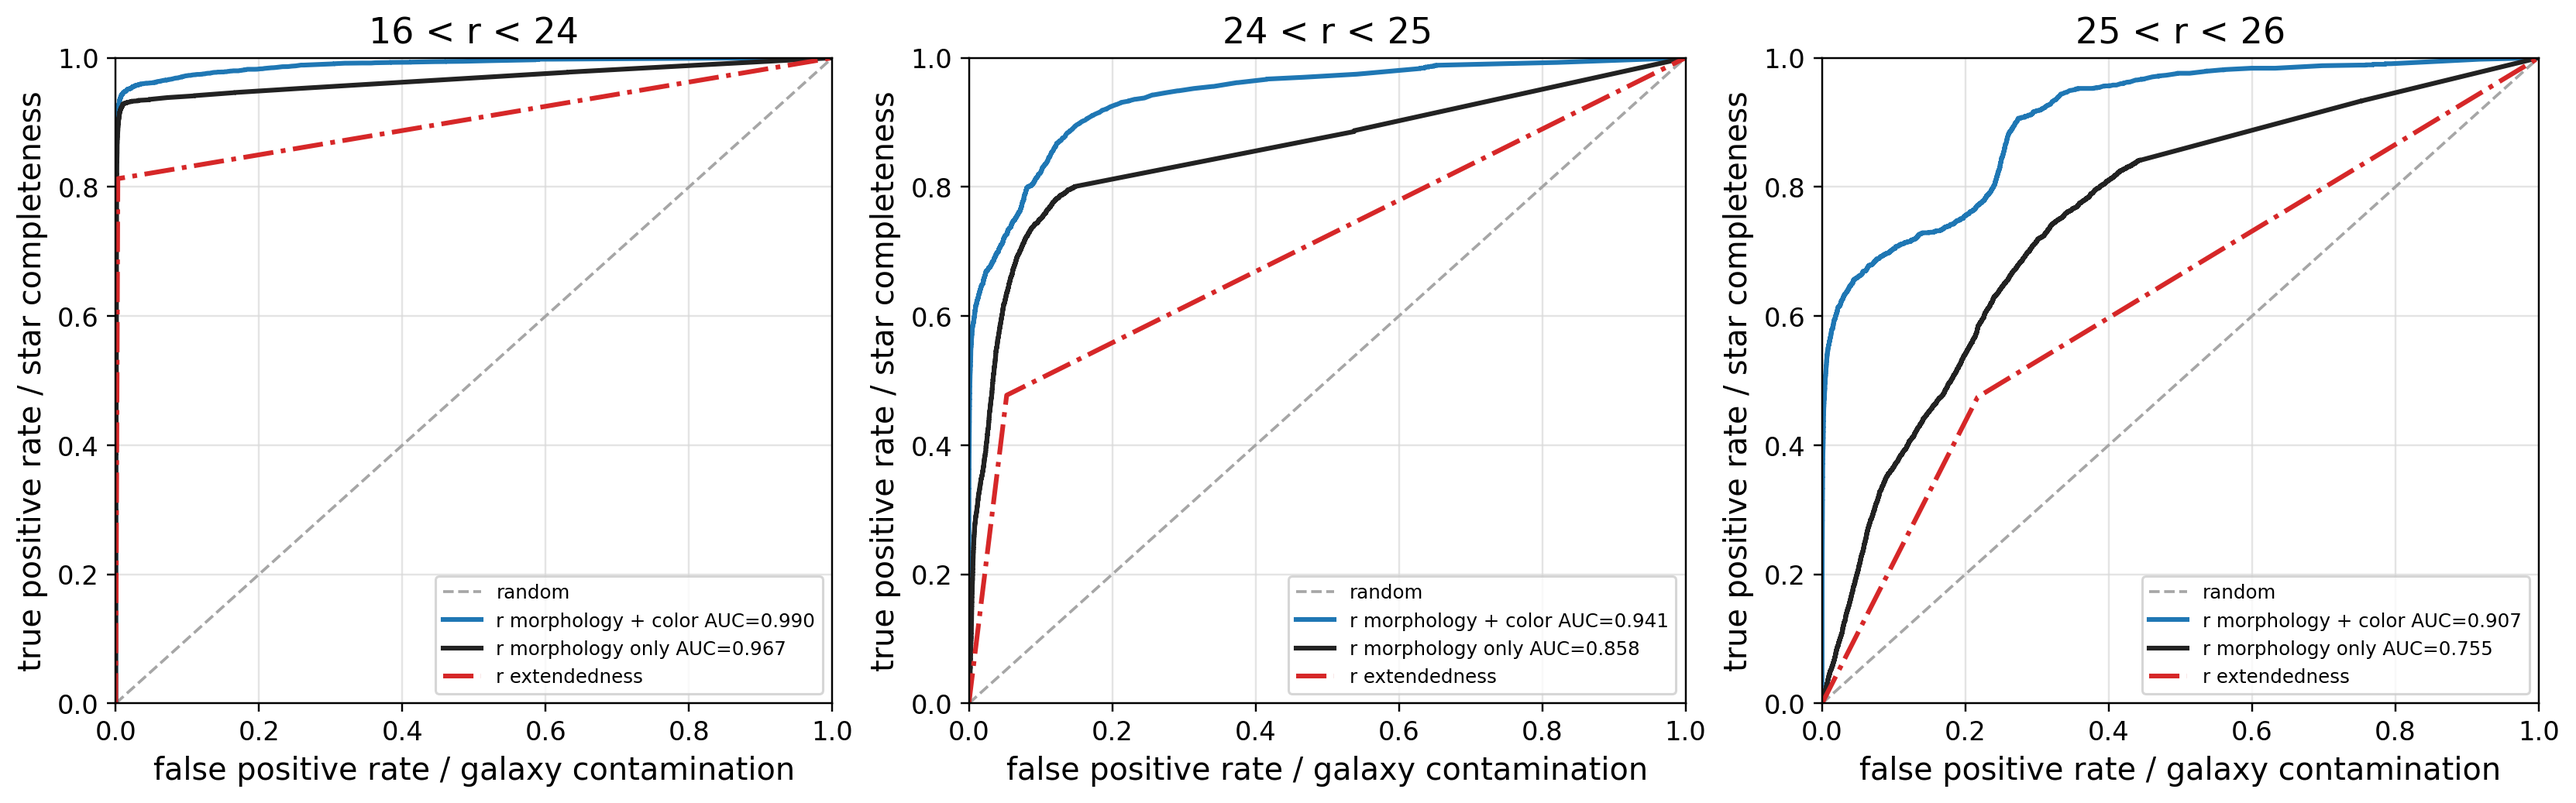
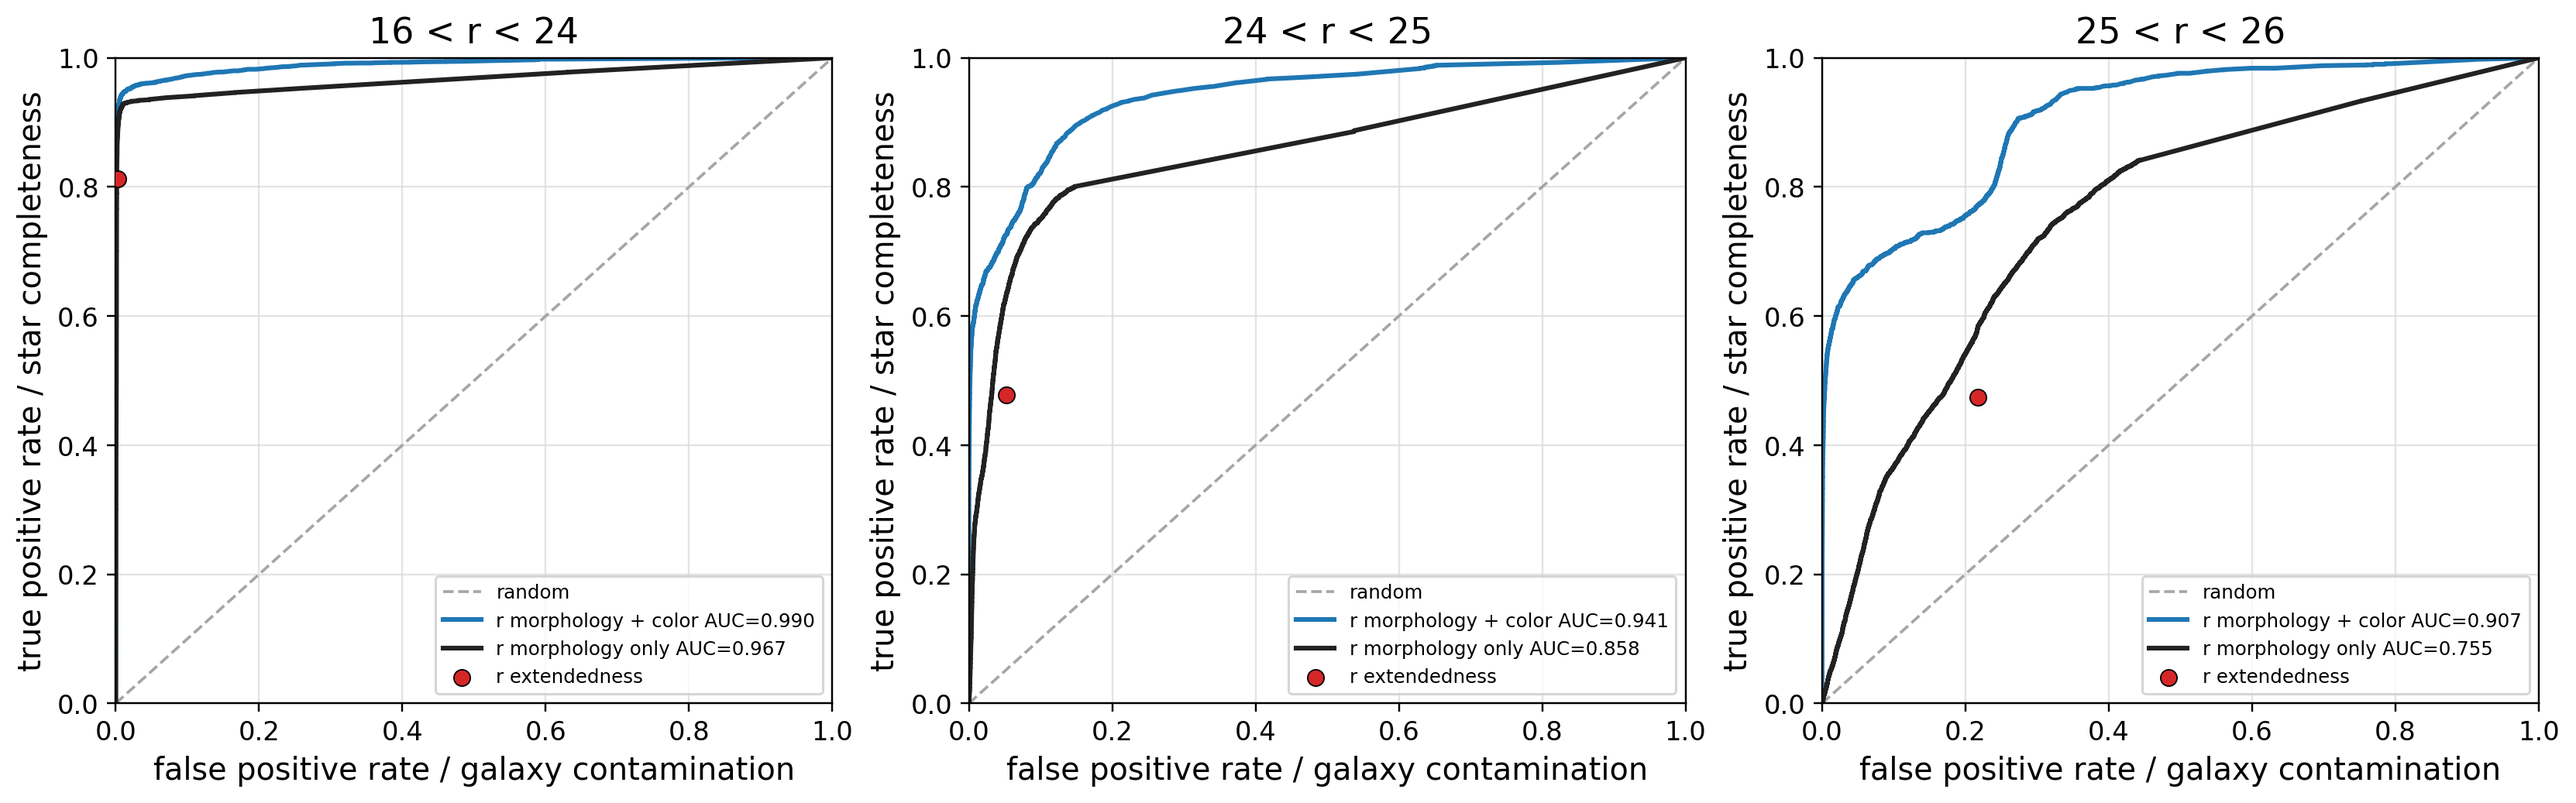
Use marker for extendedness operating point

diff --git a/analysis_code/section2_section5_paper_convergence/run_section2_eq54_color_roc_auc.py b/analysis_code/section2_section5_paper_convergence/run_section2_eq54_color_roc_auc.py
@@ -32,14 +32,14 @@ BINS = [
 ]
 
 COLOR_SCORES = [
-    ("r + color", "pS_r_eq54prior_color", "#1f77b4"),
-    ("gri + color", "pS_gri_eq54prior_color", "#ff7f0e"),
-    ("ugrizy + color", "pS_ugrizy_eq54prior_color", "#2ca02c"),
+    ("r morphology + color", "pS_r_eq54prior_color", "#1f77b4"),
+    ("gri morphology + color", "pS_gri_eq54prior_color", "#ff7f0e"),
+    ("ugrizy morphology + color", "pS_ugrizy_eq54prior_color", "#2ca02c"),
 ]
 
 R_COMPARISON_SCORES = [
-    ("Eq.54 r + color", "pS_r_eq54prior_color", "#1f77b4"),
-    ("Eq.54 morphology r", "pS_r_eq54prior", "#222222"),
+    ("r morphology + color", "pS_r_eq54prior_color", "#1f77b4"),
+    ("r morphology only", "pS_r_eq54prior", "#222222"),
 ]
 
 MORPHOLOGY_REFERENCE_SCORES = [
@@ -188,7 +188,7 @@ def make_fig2_8(summary: pd.DataFrame, curves: dict[tuple[str, str], tuple[np.nd
         ax.legend(fontsize=8, loc="lower right", frameon=True)
     for suffix in ["png", "pdf"]:
         out = paths.figure_dir / f"fig2_8_cosmos_eq54_color_roc_3bins.{suffix}"
-        if out.exists():
+        if out.exists() and os.environ.get("OVERWRITE_CURRENT_ROC_OUTPUTS") != "1":
             raise FileExistsError(f"Refusing to overwrite existing file: {out}")
         fig.savefig(out, dpi=220, bbox_inches="tight")
     plt.close(fig)
@@ -229,12 +229,15 @@ def make_fig2_9(summary: pd.DataFrame, curves: dict[tuple[str, str], tuple[np.nd
             fpr = fp / (fp + tn) if (fp + tn) > 0 else np.nan
             contamination = fp / (tp + fp) if (tp + fp) > 0 else np.nan
             purity = tp / (tp + fp) if (tp + fp) > 0 else np.nan
-            ax.plot(
-                [0.0, fpr, 1.0],
-                [0.0, tpr, 1.0],
+            ax.scatter(
+                [fpr],
+                [tpr],
                 color="#d62728",
-                lw=2.0,
-                ls="-.",
+                s=48,
+                marker="o",
+                edgecolors="black",
+                linewidths=0.6,
+                zorder=5,
                 label="r extendedness",
             )
             ext_summary_rows.append(
